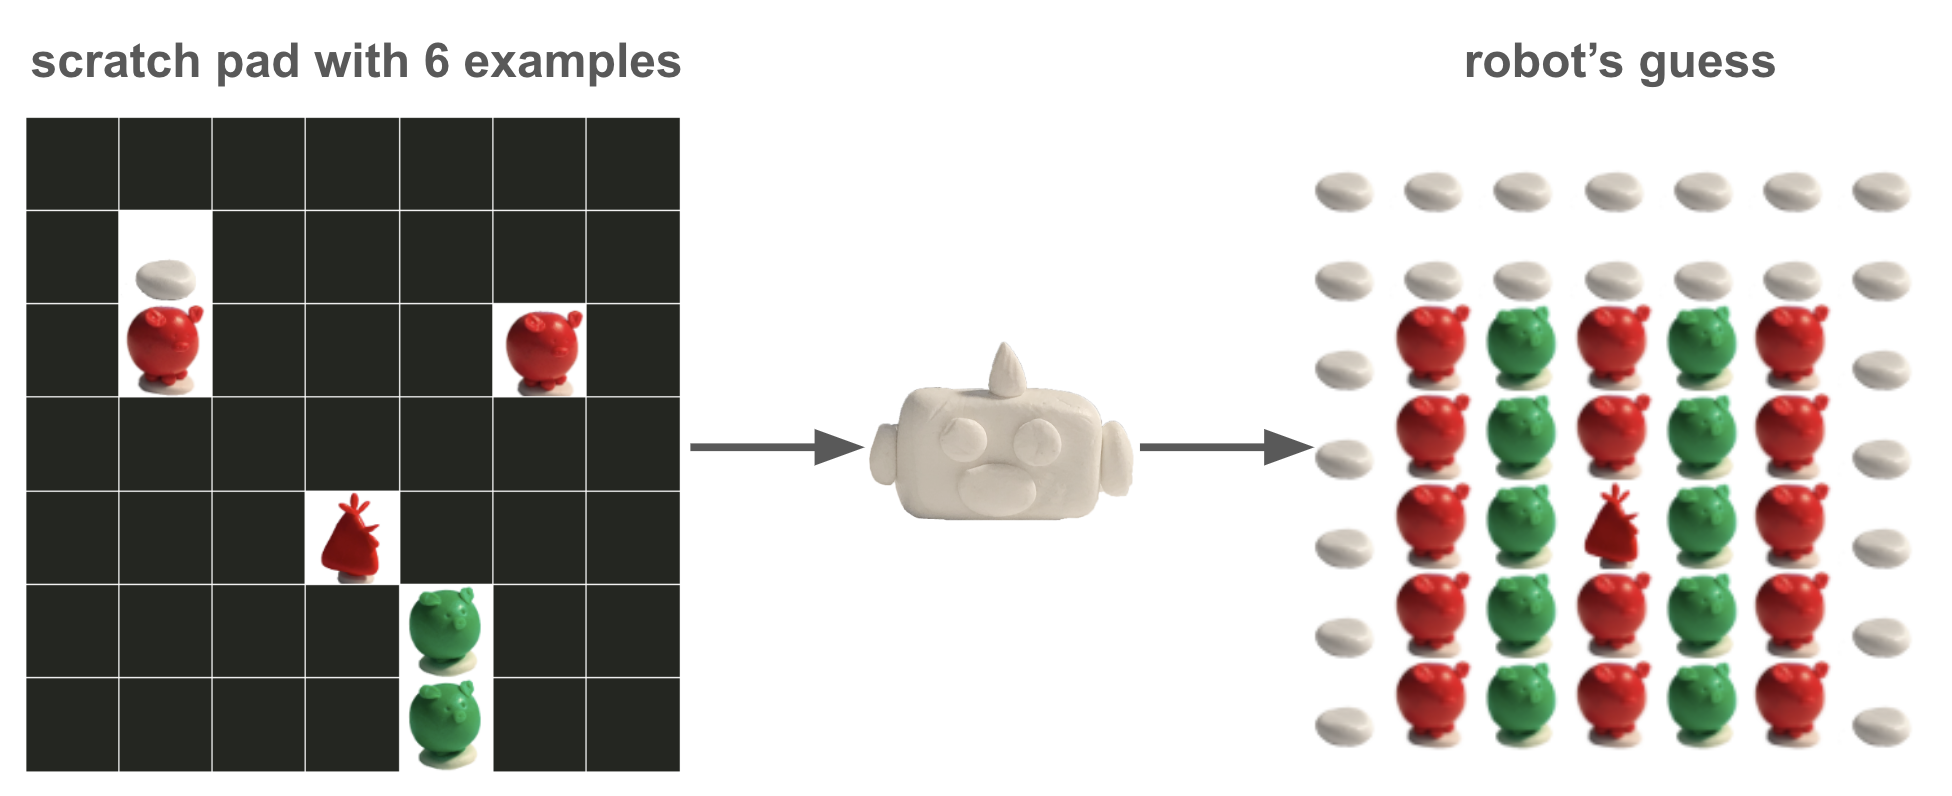
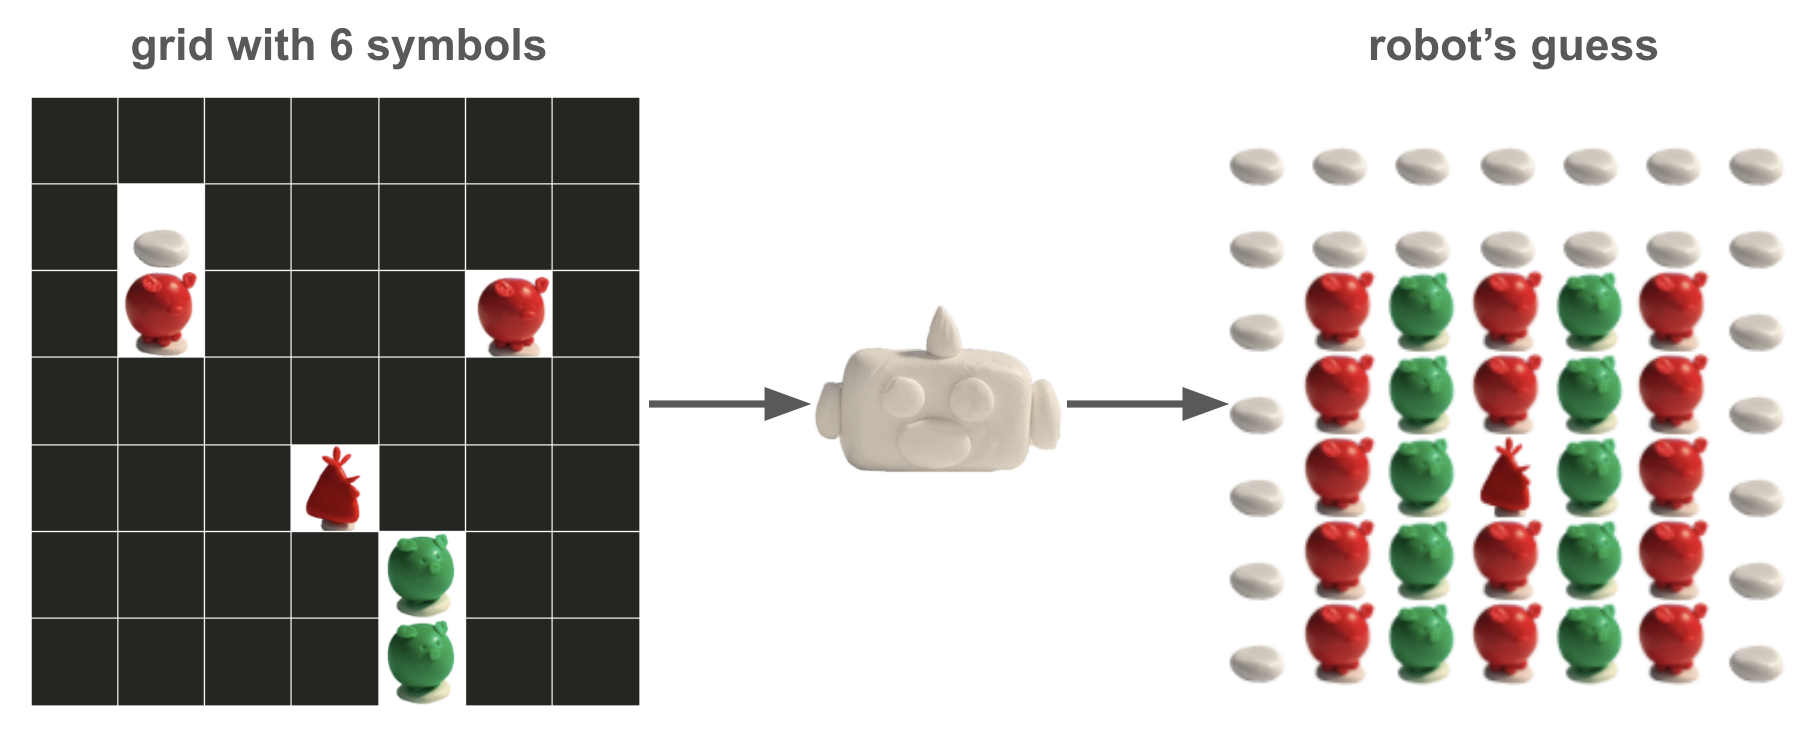
updated to be more streamilned

diff --git a/v13_human_study/index.html b/v13_human_study/index.html
@@ -1,8 +1,10 @@
 <!doctype html>
 <html>
     <head>
-        <title>Bien Venido :D</title>
+        <title>Experiment</title>
+        <!--
         <link rel="stylesheet" href="index.css">
+        -->
         <script src="https://ajax.googleapis.com/ajax/libs/jquery/3.4.1/jquery.min.js"></script>
 
         <script src="index.js"></script>
@@ -15,20 +17,21 @@
 
                 <h3><center> IMPORTANT! This study can ONLY run on a desktop/laptop. </center><h3>
 
-                <p style="margin-left: 20%; margin-right : 20%; text-align: justify;"> 
+                <p style="margin-left: 20%; margin-right : 20%; text-align: center; line-height: 2.0; "> 
                 In this study you will communicate with robots using symbols. <br>
 
-                Your task is to use symbols efficiently <br>
+                Your task is to use fewer symbols to communicate if possible <br>
 
                 In the end of the session we will ask you a few unrelated demographic questions. <br>
 
                 The study is expected to take 20 minutes <br>
 
                 Thanks for participating! <br>
-
+                </p>
+                <div style="margin-left: 30%; margin-right : 30%; text-align: justify; font-size: small;">
                 Informed Consent
                 By answering the following questions, you are participating in a study performed by cognitive scientists in the MIT Department of Brain and Cognitive Science. If you have questions about this research, please contact Tomer Ullman at tomeru@mit.edu. Your participation in this research is voluntary. You may decline to answer any or all of the following questions. You may decline further participation, at any time, without adverse consequences. Your anonymity is assured; the researchers who have requested your participation will not receive any personal identifying information about you. By clicking 'I AGREE' you indicate your consent to participate in this study.
-                </p>
+                </div>
             </div>
             <div style="margin-left: 20%; margin-right : 20%;   display: flex;
                   align-items: center;
@@ -38,10 +41,10 @@
         </div>
 
         <div id="task_description" style="display:none">
-            <h1><center> Task Description </center></h1>
+            <h1><center> Instructions </center></h1>
             
             <h3 style="margin-left: 20%; margin-right : 20%; text-align: center;"> 
-                Two robots have visited us from outer space (white robot and blue robot) and they are excited to communicate with us.
+                Two robots: the WHITE robot and the BLUE robot, have visited us from outer space. They are excited to communicate with us.
             </h3>
             <div style="display: flex;
               align-items: center;
@@ -50,7 +53,7 @@
             </div>
 
             <h3 style="margin-left: 20%; margin-right : 20%; text-align: center;"> 
-                Scientists discoverd that the robots communicate by building grid-like patterns. Below are 3 of such patterns.
+                The robots communicate by building 7x7 grid patterns. For example:
             </h3>
             <div style="display: flex;
               align-items: center;
@@ -59,34 +62,16 @@
             </div>
 
             <h3 style="margin-left: 20%; margin-right : 20%; text-align: center;">
-                In this experiment, you will communicate by building these kinds of patterns on a 7x7 scratch pad.
+                Your task is to get robots to guess which pattern it is, by showing them an incomplete grid.
             </h3>
             <div style="display: flex;
               align-items: center;
               justify-content: center;">
-                <img src="assets/scratch_pad.png" alt="7x7 Scratch Pad" width="240" style="center;">
+                <img src="assets/comm_task.png" alt="Communication Task" width="700" style="center;">
             </div>
-
+            
             <h3 style="margin-left: 20%; margin-right : 20%; text-align: center;">
-                On each coordinate of the scratch pad, you can put down an example of one of 3 symbols: pig, chicken, and pebble.
-            </h3>
-            <div style="display: flex;
-              align-items: center;
-              justify-content: center;">
-                <img src="assets/all_shapes.png" alt="Three Symbols" width="240" style="center;">
-            </div>
-
-            <h3 style="margin-left: 20%; margin-right : 20%; text-align: center;">
-                Each pig or chicken can be one of 3 colors: red, green, and blue. Pebbles are always white.
-            </h3>
-            <div style="display: flex;
-              align-items: center;
-              justify-content: center;">
-                <img src="assets/all_colors.png" alt="Three Colors" width="240" style="center;">
-            </div>
-
-            <h3 style="margin-left: 20%; margin-right : 20%; text-align: center;">
-                After you pick the symbol and its color, you can place it on the scratch-pad. In case you make a mistake, you can click on the example again to remove it.
+                Pick a symbol its color, and place it on your grid. If you make a mistake, click on the symbol again to remove it.
             </h3>
             <div style="display: flex;
               align-items: center;
@@ -95,16 +80,25 @@
             </div>
 
             <h3 style="margin-left: 20%; margin-right : 20%; text-align: center;">
-                Building the entire pattern at once can be tedius, as it requires 7x7=49 examples. Luckily, the robots are empathetic: They will try to guess what pattern you are trying to communicate based on the examples you've shown the scratch pad so far. 
+                There are 3 symbols: chicken, pig, and pebble. There are 3 colors: red, green, and blue. Pebbles are always white.
             </h3>
             <div style="display: flex;
               align-items: center;
               justify-content: center;">
-                <img src="assets/comm_task.png" alt="Communication Task" width="700" style="center;">
+                <img src="assets/all_shapes.png" alt="Three Symbols" width="240" style="center;">
+            </div>
+            <div style="display: flex;
+              align-items: center;
+              justify-content: center;">
+                <img src="assets/all_colors.png" alt="Three Colors" width="240" style="center;">
             </div>
 
+
+
+            
+
             <h3 style="margin-left: 20%; margin-right : 20%; text-align: center;">
-                You will communicate with the robots, one at a time. With each robot, you will communicate a total of 12 patterns. Your goal is to have the robots correctly guess your pattern while using as few examples as possible. 
+              Your task is to have the robots correctly guess your pattern while using as few symbols as possible. 
             </h3>
 
             <br>
@@ -117,7 +111,7 @@
 
             <!-- Q1 -->
             <h3 style="margin-left: 20%; margin-right : 20%; text-align: center;">
-                What is the size of the patterns / scratch-pad ? 
+                What is the size of the patterns / grid ? 
             </h3>
             <div style="display: flex;
               align-items: center;
@@ -150,9 +144,9 @@
               align-items: center;
               justify-content: center;">
                 <form action="">
-                  <input type="radio" name="exptask" value="fastest"> Put the examples on the scratch pad as fast as possible the robot guess your pattern quickly <br>
-                  <input type="radio" name="exptask" value="other"> Fill the entire scratch pad starting from the upper-left corner to communicate perfectly <br>
-                  <input type="radio" name="exptask" value="fewest"> Put few, well-chosen examples on the scratch pad so the robot can guess your pattern correctly<br>
+                  <input type="radio" name="exptask" value="fastest"> Put the symbols on the grid as fast as possible the robot guess your pattern quickly <br>
+                  <input type="radio" name="exptask" value="other"> Fill the entire grid starting from the upper-left corner to communicate perfectly <br>
+                  <input type="radio" name="exptask" value="fewest"> Put few, well-chosen symbols on the grid so the robot can guess your pattern correctly<br>
                 </form>
             </div>
 

diff --git a/v13_human_study/problem.js b/v13_human_study/problem.js
@@ -83,7 +83,7 @@ function new_problem(target_id, robot_id){
     // render progress bar
     $("#progress_bar").html(`pattern ${target_ids.findIndex(x => x == target_id) + 1} out of ${target_ids.length}`)
     // clear the example used
-    $("#utterance_count").html(`examples used ${ Object.keys(examples).length}`);
+    $("#utterance_count").html(`symbols used ${ Object.keys(examples).length}`);
 
     // clear all boxes with empty
     for (var jjj=0; jjj<3; jjj++){
@@ -156,8 +156,8 @@ function make_next_button() {
     var box = document.createElement("div"); 
     box.className = "interact";
     box.id = "NEXT";
-    box.style.top = "" + (OFFSETTOP + WW * 2.5) + "vmin";
-    box.style.left = "" + (OFFSET5) + "vmin";
+    box.style.top = "" + (OFFSETTOP + WW * 8) + "vmin";
+    box.style.left = "" + (OFFSET4) + "vmin";
     $(box).css("background-image", 'url(assets/forward.png)');
     $(box).hover(function(){
         $(this).css("border-width", "thick");
@@ -207,7 +207,7 @@ function make_target(){
 
     var box = document.createElement("div"); 
     box.id = "target_text";
-    box.innerHTML = "communicate this";
+    //box.innerHTML = "communicate this";
     box.className = "box text";
     box.style.top = "" + OFFSETTEXTTOP + "vmin";
     box.style.left = "" + 10 + "vmin";
@@ -353,7 +353,7 @@ function make_working_grid(){
                         $("#warning_text").text("inconsistent examples!")
                     }
                 });
-                $("#utterance_count").html(`examples used ${ Object.keys(examples).length}`);
+                $("#utterance_count").html(`symbols used ${ Object.keys(examples).length}`);
                 clear_candidate_border();
                 clear_grid_canvas("#cand_box_0");
                 clear_grid_canvas("#cand_box_1");
@@ -370,7 +370,7 @@ function make_working_grid(){
     // working area text
     var box = document.createElement("div"); 
     box.id = "working_text";
-    box.innerHTML = "scratch pad";
+    box.innerHTML = "your grid";
     box.className = "box text";
     box.style.top = "" + OFFSETTEXTTOP + "vmin";
     box.style.left = "" + OFFSET2 + "vmin";
@@ -400,7 +400,7 @@ function make_progress() {
 function make_utterance_count() {
     var box = document.createElement("div"); 
     box.id = "utterance_count";
-    box.innerHTML = "examples used 0";
+    box.innerHTML = "symbols used 0";
     box.className = "box text";
     box.style.top = "" + (OFFSETTOP + WW * 5) + "vmin";
     box.style.left = "" + 10 + "vmin";
@@ -420,7 +420,7 @@ function make_layout() {
     // the candidate result text only
     var box = document.createElement("div"); 
     box.id = "result_text";
-    box.innerHTML = "results";
+    // box.innerHTML = "results";
     box.className = "box text";
     box.style.top = "" + OFFSETTEXTTOP + "vmin";
     box.style.left = "" + OFFSET4 + "vmin";

diff --git a/v13_human_study/summary.html b/v13_human_study/summary.html
@@ -5,6 +5,12 @@
         <link rel="stylesheet" href="index.css">
         <script src="https://ajax.googleapis.com/ajax/libs/jquery/3.4.1/jquery.min.js"></script>
 
+<script
+  src="https://code.jquery.com/ui/1.11.4/jquery-ui.min.js"
+  integrity="sha256-xNjb53/rY+WmG+4L6tTl9m6PpqknWZvRt0rO1SRnJzw="
+  crossorigin="anonymous"></script>
+
+
         <!-- The core Firebase JS SDK is always required and must be listed first -->
         <script src="https://www.gstatic.com/firebasejs/7.5.0/firebase-app.js"></script>
         <script src="https://www.gstatic.com/firebasejs/3.1.0/firebase-database.js"></script>
@@ -18,7 +24,7 @@
         <div id="exit_survey">
 
             <h1 style="margin-left: 20%; margin-right : 20%; text-align: center;">
-                Optional Survey
+                Survey
             </h1>
 
             <h3 style="margin-left: 20%; margin-right : 20%; text-align: center;">
@@ -33,12 +39,8 @@
             <div style="display: flex;
               align-items: center;
               justify-content: center;">
-                <form action="">
-                  <input type="radio" name="qage" value="<30"> less than 30 <br>
-                  <input type="radio" name="qage" value="30-39"> 30 to 39 <br>
-                  <input type="radio" name="qage" value="40-49"> 40 to 49 <br>
-                  <input type="radio" name="qage" value=">50"> greater than 50 <br>
-                </form>
+                  <input type="range" min="18" max="100" value="30" class="slider" id="age_range" style="width:30%;">
+                  <p>Age: <span id="qage"></span></p>
             </div>
 
             <!-- Q2 -->
@@ -57,7 +59,7 @@
 
             <!-- Q3 -->
             <h3 style="margin-left: 20%; margin-right : 20%; text-align: center;">
-                Which robot was it EASIER for you to communicate with?
+                Which robot was it EASIER to communicate with?
             </h3>
             <div style="display: flex;
               align-items: center;

diff --git a/v13_human_study/robot_brief.html b/v13_human_study/robot_brief.html
@@ -20,7 +20,8 @@
         <!-- first time show this -->
         <div id="first_time_show" style="display:unset;">
             <h3 id = "robot_text" style="margin-left: 20%; margin-right : 20%; text-align: center;">
-                You will be communicating 12 patterns. After a pattern is correctly guessed, click on the yellow arrow to advance to the next pattern. 
+                This robot has a particular way of guessing your pattern, find out how to communicate with it with as few symbols as possible. <br>
+                You will be communicating 12 patterns. After a pattern is correctly guessed, click on the yellow arrow to advance. 
             </h3>
              <div style="display: flex;
                   align-items: center;
@@ -29,14 +30,14 @@
             </div>
 
             <h3 id = "robot_text" style="margin-left: 20%; margin-right : 20%; text-align: center;">
-                This robot has a particular way of guessing your pattern, find out how to communicate with it with as few examples as possible. At the end of the experiment, we'll show how well you performed against other testers.
+                At the end of the experiment, we'll show how well you performed against other testers.
             </h3>
         </div>
 
         <!-- second time show this -->
         <div id="second_time_show" style="display:none;">
             <h3 id = "robot_text" style="margin-left: 20%; margin-right : 20%; text-align: center;">
-                This robot guesses your patterns DIFFERENTLY than the first robot, again, find out how to communicate with it with as few examples as possible. At the end of the experiment, we'll show how well you performed against other testers.
+                This robot guesses DIFFERENTLY than the first robot. Please try to communicate with as few symbols as possible.
             </h3>
         </div>
 

diff --git a/v13_human_study/summary.js b/v13_human_study/summary.js
@@ -59,11 +59,14 @@ $(document).ready(function(){
         console.log(overall_white, overall_blue);
     });
 
+    $("#age_range").change(function () {
+        $( "#qage" ).html( $('#age_range')[0].valueAsNumber );
+    });
 
     $("#submit_and_check").click(function () {
         console.log("logging survey feedbacks");
 
-        let age = $("input[name='qage']:checked").val();
+        let age = $('#age_range')[0].valueAsNumber;
         let gender = $("input[name='qgender']:checked").val();
         let easier_robot = $("input[name='qrobot']:checked").val();
         let white_strat = $("#white_strat").val();
